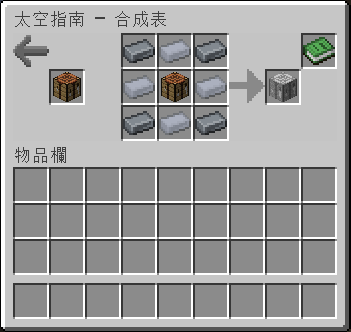
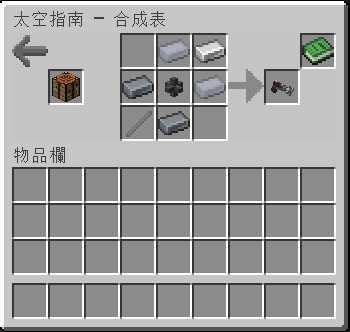
GitBook: [#108] No subject

diff --git a/item/grappling-hook.md b/item/grappling-hook.md
@@ -1,4 +1,4 @@
-# 抓鉤
+# 🎲 抓鉤
 
 ![](https://camo.githubusercontent.com/0134f748a345852cc4c1c5dd854c8f91c4d433176f0b944648a3aeb61eb6460f/68747470733a2f2f692e696d6775722e636f6d2f776c68504e70322e676966)
 
@@ -10,11 +10,11 @@
 
 抓鉤可以使用以下物品製作：
 
-![](<../.gitbook/assets/image (206).png>)
+![](<../.gitbook/assets/image (218).png>)
 
 * 1 鐵錠
 * 1 [鋁棒](aluminium-rod.md)
-* 1 [電線](Wire.md)
+* 1 [導管](Conduit.md)
 * 2 [鈦錠](titanium-ingot.md)
 * 2 [鋁合金錠](aluminium-alloy-ingot.md)
 
@@ -22,6 +22,6 @@
 
 ### 抓!!
 
-握住抓鉤並按下右鍵會觸發鉤子。當鉤子落地時，再次使用抓鉤會將玩家拉向鉤子。玩家離得越遠，被拉向鉤子的速度就越快。
+握住抓鉤並按下右鍵會發射鉤子。當鉤子落地時，再次使用抓鉤會將玩家拉向鉤子。玩家離得越遠，被拉向鉤子的速度就越快。
 
 鉤子必須落地，才能拉鉤子。

diff --git a/SUMMARY.md b/SUMMARY.md
@@ -39,9 +39,10 @@
   * [⚙ 量子工作台](item/quantum-workbench.md)
   * [⚙ 鈦工作台](item/Titanium-Workbench.md)
   * [⚙ 打印機](item/Printer.md)
-  * [🎮 裝備控制器](item/Modular-Controller.md)
-  * [🎮 急救包](item/Emergency-Kit.md)
-  * [爆炸抗性核心](item/blast-resistance-core.md)
+  * [🎲 裝備控制器](item/Modular-Controller.md)
+  * [🎲 急救包](item/Emergency-Kit.md)
+  * [🎲 爆炸抗性核心](item/Blast-Resistance-Core.md)
+  * [🎲 抓鉤](item/grappling-hook.md)
 
 ## 舊版特殊物品 <a href="#item" id="item"></a>
 
@@ -49,7 +50,6 @@
 * [電線](item/Wire.md)
 * [管線](item/Pipe.md)
 * [亞德曼合金劍　強化裝置](item/Sword-Editor.md)
-* [抓鉤](item/grappling-hook.md)
 * [懸掛式滑翔機](item/hang-glider.md)
 * [光子屏障](item/photonic-barrier.md)
 * [安德劍&安德弓](item/ender-set.md)

diff --git a/space/itemlist.md b/space/itemlist.md
@@ -40,7 +40,7 @@
 
 * [裝備控制器](../item/Modular-Controller.md)
 * [急救包](../item/Emergency-Kit.md)
-* [爆炸抗性核心](../item/blast-resistance-core.md)
+* [爆炸抗性核心](../item/Blast-Resistance-Core.md)
 * [抓鉤](../item/grappling-hook.md)
 * [懸掛式滑翔機](../item/hang-glider.md)
 * [光子屏障](../item/photonic-barrier.md)

diff --git a/item/Blast-Resistance-Core.md b/item/Blast-Resistance-Core.md
@@ -1,6 +1,6 @@
-# 爆炸抗性核心
+# 🎲 爆炸抗性核心
 
-![](<../.gitbook/assets/ezgif.com-gif-maker (1).png>)
+![](<../.gitbook/assets/ezgif.com-gif-maker (4).png>)
 
 爆炸抗性核心是一種小工具，可用於抵抗所有形式的爆炸。
 

diff --git a/item/Wireless-Charging-Station.md b/item/Wireless-Charging-Station.md
@@ -2,7 +2,7 @@
 
 
 
-![](<../.gitbook/assets/image (218) (1) (1).png>)
+![](<../.gitbook/assets/image (218) (1) (1) (1).png>)
 
 無線充電站是一種[通電機器](../space/energy-systems.md)，可用於為玩家庫存中的通電物品充電。
 

diff --git a/item/Titanium-Workbench.md b/item/Titanium-Workbench.md
@@ -10,7 +10,7 @@
 
 鈦工作台可以使用以下物品製作：
 
-![](<../.gitbook/assets/image (218).png>)
+![](<../.gitbook/assets/image (218) (1).png>)
 
 * 4[鋁合金錠](aluminium-alloy-ingot.md)
 * 4[鈀錠](palladium-ingot.md)

diff --git a/item/Tank-Refiller.md b/item/Tank-Refiller.md
@@ -14,7 +14,7 @@
 
 氧氣補充器可以使用以下物品製作：
 
-![](<../.gitbook/assets/image (218) (1).png>)
+![](<../.gitbook/assets/image (218) (1) (1).png>)
 
 
 

diff --git a/item/Modular-Controller.md b/item/Modular-Controller.md
@@ -1,4 +1,4 @@
-# 🎮 裝備控制器
+# 🎲 裝備控制器
 
 ![](<../.gitbook/assets/image (51).png>)
 

diff --git a/item/Emergency-Kit.md b/item/Emergency-Kit.md
@@ -1,4 +1,4 @@
-# 🎮 急救包
+# 🎲 急救包
 
 ![](<../.gitbook/assets/image (54).png>)
 
